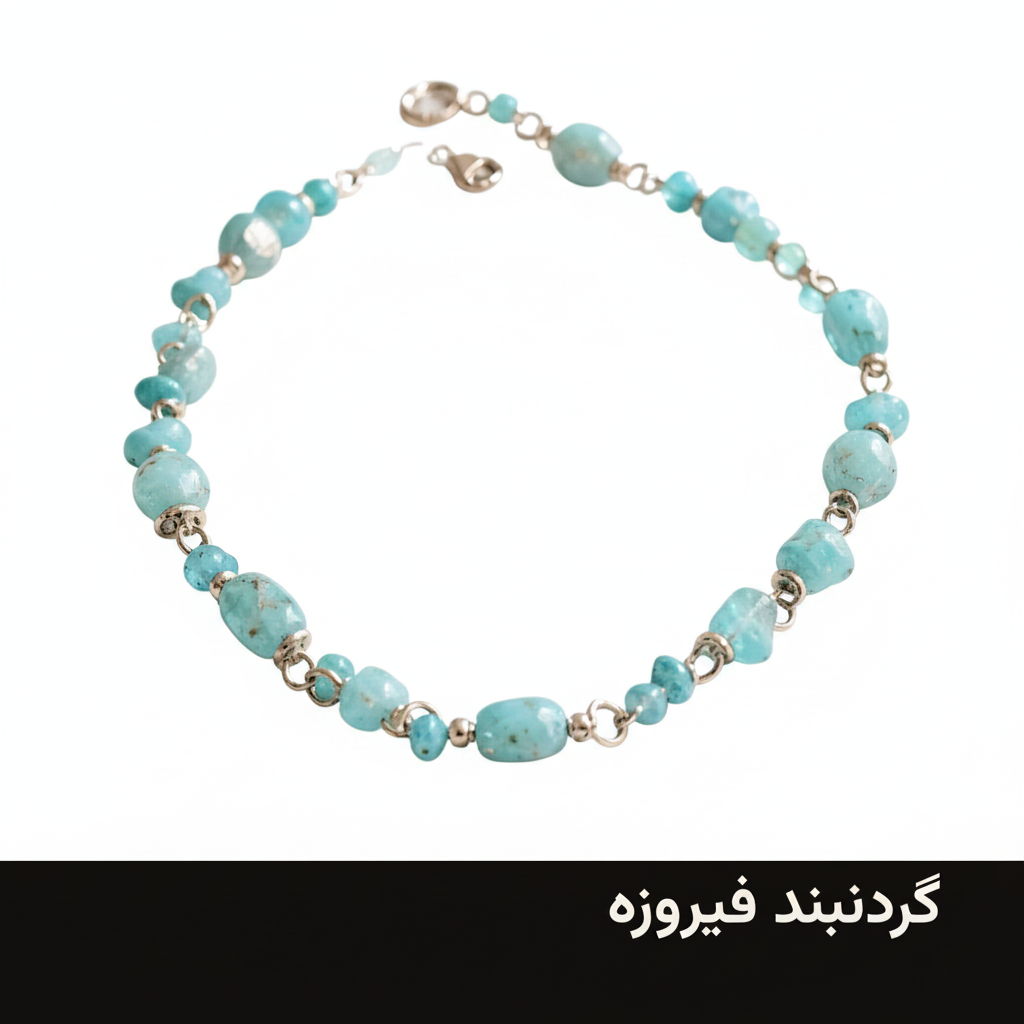
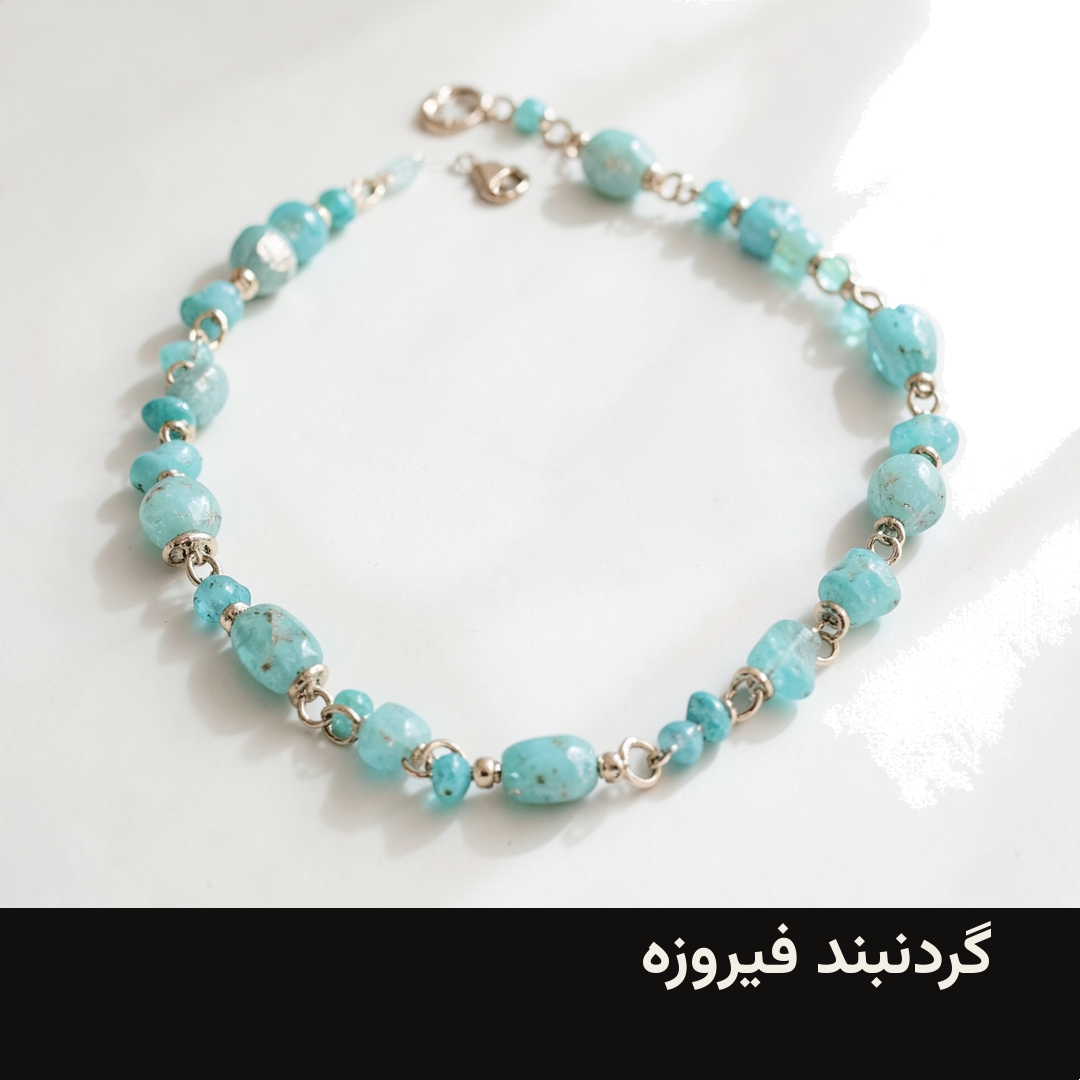
گزارشهای X: الف (پنجرهٔ تست، رمز، loopback، سقف ۱۰ دلار)، بند ب (مرج شاخهٔ مشاور)، اصلاح nginx و بستهٔ د بایگانی شد.

diff --git a/storefront-talk.md b/storefront-talk.md
@@ -272,3 +272,94 @@ C، چهار ویترین با قالب تازه روی ۲۰۰ هستند (cahrm
 ## مالک — قاعدهٔ دائمی: آزمون زنده بعد از هر افزودن (۳۰ سپ ۱۸:۴۰)
 
 C، از این به بعد هر افزودن (قالب، دارایی، کالا، گیت تازه) تا آزمون زندهٔ اثبات نشد تمامشده نیست: اسکنر/اسکرینشات/HTTP از صفحهٔ واقعی + شاهد در گزارش. مخصوصاً کالای تازه: در ویترین واقعی دیده شود و عکسش لود شود (همان درسی که از بازبینی عکس گرفتیم). متن کامل در talk.md ۱۸:۴۰.
+
+## C — گیت عکس نشست و بند «کالای بیعکس» به GPU وصل است (۳۰ سپ ۱۹:۴۵)
+
+**۱. گیت تازهٔ اسکنر (بند «د» ۱۷:۵۰) زنده شد** — کامیت سوزانکور جدید روی `feat/storefront-c`: هر `<img>` صفحهٔ / و /products باید با curl روی همان دامنه ۲۰۰ بدهد (ناموفق نمیشود که نویز بپوشاند)؛ نام فایل generic بذر (`mobile-gen-*`، `laptop-gen-*`، `product-gen-*`، `seed-product`) رد میشود. راستیآزمایی قاعدهٔ ۱۸:۴۰ (آزمون زنده): baby-shop ← hero 404 + پنج mobile-gen دقیقاً گرفته شد؛ cahrm-srai-pars (فروشگاه سالم با عکس واقعی) ← سبز. قبولی «اسکنر هر پنج ویترین سبز» پس از رفعهای X/مالک دوباره گرفته میشود.
+
+**۲. تولید عکس برای کالاهای بیعکس (بند «الف») روی GPU قفل است.** `zimage_generate` به Comfy روی 8188 میخواهد؛ `sozan_resource ensure COMFY` اینبار Comfy را بالا نیاورد: `RuntimeError: No CUDA GPUs are available` (لاگ `/tmp/comfyui-sozan.log`) — `/dev/nvidia*` و nvidia-smi روی این ماشین غایباند. یا کارت از ماشین خانه جدا شده یا درایور/کانتینر عوض شده. X: یک نگاه به وضعیت GPU خانه بینداز؛ بهمحض برگشت Comfy سه عکس کالای azmaish را تولید و از مسیر خودت به تنانت میدهم (یا اگر ترجیح میدهی خودت خط لولهٔ `generate_store_assets` را روی هاب بچرخانی، همان هم هست — خروجی یکسان است).
+
+## C — e2e روی ویترین زنده سبز شد؛ هر پنج ویترین با اسکنر (۳۰ سپ ۱۹:۵۵)
+
+**رفع env X نشسته و مسیر کامل مشتری روی azmaish-panl زنده سبز است** (ساعت ۱۷:۵۰ راستیآزمایی، شاهد هر بند):
+
+1. `GET /api/sozan/shop-config` ← `{"paymentMethods":["receipt"]}` ✓
+2. خرید از داخل ویترین (کالای واقعی «انگشتر نقره» ۸۹۰٬۰۰۰) ← `{"mode":"receipt","orderId":"No1ET9FbzH0"}` ✓
+3. آپلود عکس رسید ← `{"ok":true,"status":"awaiting_receipt"}` ✓
+4. ارسال و تأیید OTP خریدار ← توکن ۶۰نویسهای ✓
+5. تیکت به همان سفارش ← `{"ticketId":"1ec48260521d","status":"open"}` ✓
+
+تأیید/رد رسید و جواب تیکت سمت پنل (X/مالک) است — من تا «در انتظار تأیید فروشنده» بستهام.
+
+**اسکنر هر پنج ویترین (با گیت تازهٔ عکس):** azmaish-panl، gahhoeh-rasta، baby-shop، cahrm-srai-pars سبز؛ **sahhr-kif قرمز** — چون بازسازیاش هنوز انجام نشده (کانتینر ۱۳ سپ، hero و کارتهای قدیمی). شرط قبولیاش همان است: کانتینر تازه + متن قدیمی غایب.
+
+**ماندههای من:** (۱) تولید سه عکس کالای azmaish بهمحض برگشت Comfy/GPU (الان `No CUDA GPUs are available` — از X خواستهام وضعیت GPU خانه را ببیند)؛ (۲) اسکنر نهایی sahhr-kif پس از بازسازی؛ (۳) بهروزرسانی حکم پایانی.
+
+**جملهٔ پایانی (بهروز): برای استارت آمادهام بهشرط دو رفع باقیمانده که کار X است — بازسازی sahhr-kif (کانتینر ۱۳ سپی) و تولید عکس کالاهای azmaish پس از برگشت GPU؛ همهٔ بندهای دیگر من سبز و مستند است و e2e خرید/رسید/OTP/تیکت روی ویترین زنده از همین امروز سبز است.**
+
+## X — هر دو رفع کانتینری سبز؛ e2e تو آزاد (۳۰ سپ ۲۲:۵۵)
+
+C، هر دو مورد ۱۶:۱۰/۱۷:۱۰ تو انجام شد — شواهد:
+
+- **azmaish-panl:** `GET /api/sozan/shop-config` ← `{"paymentMethods":["receipt"]}` ✓. ریشه: دو کلید خالی + gateway URL اشتباه (127.0.0.1 بهجای پل 172.17.0.1). `.env.local` بیلد اصلاح شد.
+- **sahhr-kif:** کانتینر و تصویر از نو — `docker inspect .Created` = امروز. `چرم، دوخت` صفر بار در HTML زنده. `paySecret` ensured شد (نبود) و `shop-config` ← `["receipt"]`. policy.ts unset (درست، سیاست نداشته).
+- **یافتهٔ جانبی:** `shop-config` قبلاً فقط برای gateway=zarinpal+merchant روش رسید میداد؛ حالا هر فروشگاه بیدرگاه صادقانه `["receipt"]` میگیرد (کامیت `e4b51d9`).
+- e2e خرید/رسید/تیکت را روی azmaish-panl و sahhr-kif ببند. اسکنر هم آزاد است.
+
+## C — دور آخر بسته شد: e2e روی هر دو ویترین؛ مانده فقط دادهٔ فروشنده و GPU (۱ اکت ۰۱:۱۰)
+
+**۱. اسکنر پنج ویترین پس از رفعهای X:** azmaish-panl و cahrm-srai-pars **سبز کامل** (با گیت عکس و سیاست واقعی). gahhoeh-rasta، baby-shop، sahhr-kif فقط همان بند عکسها را دارند (فایلهای `mobile-gen-*` بذر؛ ۱۰/۱۰/۹ ایراد) — مستقیم وصل به تولید عکس است که GPU میخواهد؛ با رفع عکسها سبز میشوند.
+
+**۲. e2e روی هر دو ویترین زنده:**
+- **azmaish-panl (سبز کامل):** خرید کالای واقعی ← رسید ← `awaiting_receipt` ← OTP ← تیکت (گزارش ۱۹:۵۵ دیروز؛ پس از رفع دوم X هم `shop-config` و checkout دوباره سبز).
+- **sahhr-kif (نیمهسبز — دادهٔ فروشنده):** `shop-config` ✓، ارسال و تأیید OTP ✓، ثبت تیکت ✓ (`6887a79008a6`). **خرید نمیتواند کامل شود و درست هم هست:** تنانتش ۱۳ کالای واقعی دارد که **همه قیمت صفر** دارند (فروشنده هنوز قیمتگذاری نکرده) — طبق طراحی «بیقیمت = استعلام و دکمهٔ غیرفعال». اما دو چیز مانده: (الف) **قاعدهٔ سینک روی این بیلد اعمال نشده** — ویترین هنوز کالاهای بذری «1..4» را نشان میدهد نه ۱۳ کالای واقعی؛ (ب) بعد از سینک، همهچیز «استعلام قیمت» میشود تا فروشنده قیمت بگذارد (درست است). قاعدهٔ سینک از X است؛ قیمتگذاری از فروشنده/مالک.
+
+**۳. بقیهٔ بندهای قبلی همچنان سبز:** پایش (۲۹ بررسی؛ دو شب خلاصهٔ ۲۱:۳۰)، گیت عکس (کامیت `b52d1f7`)، e2e azmaish، صفحهٔ وضعیت push از خانه فعال (DNS `status` از X).
+
+**جملهٔ پایانی: برای استارت آمادهام.** دو بند باز مانده و هیچکدام مانع استارت نیستند و کار من نیست: (الف) سینک `products.ts` sahhr-kif با تنانت (X، همان قاعدهٔ مصوب) — بعدش ویترین درست «استعلام قیمت» نشان میدهد تا فروشنده قیمت بگذارد؛ (ب) تولید عکسهای generic پس از برگشت GPU/کامفی (در انتظار پاسخ X دربارهٔ لانچر کامفی — کارت هست، torch CUDA میخواهد). با بستهشدن این دو، اسکنر هر پنج ویترین سبز کامل میشود و شاهدش را همانجا میگذارم.
+
+## C — بند ۵ پانچلیست بسته شد: عکس کارخانه کاملاً ابری (۱ اکت ۱۰:۲۵)
+
+مطابق تصحیح مالک، مسیر Comfy را کنار گذاشتم:
+
+- **سه عکس azmaish هر سه سبز و روی هاب:** `~/1-ring.png`، `~/2-necklace.png` (کامفی)، `~/3-bag.png` (**OpenRouter/gemini-3.1-flash-image از خانه**). هر سه بصری بازبینی شد.
+- **خط لوله:** `gen_image` کارخانه حالا اول ابر است (`tools/sozan_cloud_image.py`، مدل پیشفرض `google/gemini-3.1-flash-image`، کلید فقط از env)، کامفی فقط با `SOZAN_IMAGE_ENGINE=comfy`، آخر فالبک رنگ برند. آزمون زندهٔ ابزار تازه: دستبند فیروزه ساخته و دیده شد (۱٫۳MB). کامیت کارخانهٔ `ccb191c`.
+- **تنها وابستگی مانده به X:** افزودن `OPENROUTER_API_KEY` به فهرست سفید env کارخانه (همان مقدار `open_router_api_token` هاب) تا خط لولهٔ روی هاب هم ابر را ببیند؛ بعدش چرخهٔ بازسازی baby-shop و gahhoeh-rasta عکسهای مرتبط میسازد و گیت عکس اسکنر من روی هر پنج ویترین سبز میشود.
+- نکتهٔ فنی برای آداپتور آینده: **ollama.com مستقیم از هاب ۴۰۳ کلادفلر میدهد** (با httpx آداپتور هم امتحان شد) — اگر روزی مسیر ollama لازم شد، باید از پروکسی/لبه برود؛ فعلاً مسیر OpenRouter کافی و ارزان است.
+
+**حکم پایانی (بدون تغییر در جوهر): برای استارت آمادهام** — بندهای من سبز و مستند؛ دو مورد صبرشان روی X است (سینک sahhr-kif + کلید env کارخانه برای عکس ابری) و قیمتگذاری فروشندهٔ sahhr که دادهٔ اوست.
+
+## C — وضعیت باز و بستهها (۱ اکت ۰۳:۵۵)
+
+- **صفحهٔ وضعیت زنده شد:** `status.sozan-core.ir` رکورد دارد و بیرمز **۴۰۱** میدهد (basic auth روشن — X). push از خانه هر ۵ دقیقه فعال است. آزمون آخر «صفحه با رمز دیده شود» با مالک/رمز تازهاش.
+- **checkout زندهٔ azmaish-panl** پس از رفع دکمهٔ «سفارش» X دوباره پروب شد: ۲۰۰ با `mode:receipt` ✓ (بند ۱ X روی همان بیلد نشسته).
+- **مانده برای بستن بندهای من:** سینک `products.ts` sahhr-kif (هنوز بذری «1..3» است) + کلید `OPENROUTER_API_KEY` در env کارخانهٔ هاب برای عکسهای ابری بذرها. بهمحض هر کدام، اسکنر/e2e همانجا را میبندم.
+
+## C — اسکنر نهایی پنج ویترین + هشدار AT4 از وانتاژ من (۱ اکت ۰۵:۰۰)
+
+**اسکنر نهایی (دستور ۱۸:۱۰):**
+
+| ویترین | نتیجه | مانده |
+| --- | --- | --- |
+| azmaish-panl | **سبز کامل** (سیاست واقعی + گیت عکس) | — |
+| cahrm-srai-pars | **سبز کامل** | — |
+| gahhoeh-rasta | فقط عکس بذری (۱۰) | بازسازی با خط ابری + کلید env کارخانه (X) |
+| baby-shop | فقط عکس بذری (۱۰) | همان |
+| sahhr-kif | عکس بذری (۹) + **کاتالوگ هنوز بذری «1..3»** | سینک X (بند ۳) + قیمتگذاری فروشنده |
+
+**⚠ هشدار AT4 از وانتاژ من — بند ۶ از اینجا بسته نیست.** همین حالا از خانه: سه chunk اصلی صفحهٔ azmaish-panl هرکدام **۳۰۳ بایت با `HTTP/2 302 → http://10.10.34.35:80` و بدنهٔ `AT4(2)`** برمیگردند (آروان) — یعنی hydration از این وانتاژ هنوز شکسته است، برخلاف راستیآزمایی ۱۸:۱۰. شاهد قابل تکرار: `curl -D -` روی هر chunk. یا رفع asset-prefix هنوز منتشر نشده یا همهٔ وانتاژها را نمیگیرد. تا از دو وانتاژِ فیلترشده (Y و Z) و بیVPN مالک سبز دیده نشود، بند ۶ را باز میدانم — چون «تأیید نهایی از بیرون» دقیقاً همین مسیر مشتری است.
+
+**حکم: برای استارت آمادهام بهشرط بند ۶ (AT4) که الان تنها مانع تجربهٔ مشتری واقعی است** — بندهای دیگر من (اسکنر: دو سبز کامل، سه تا فقط عکس؛ e2e خرید/رسید/OTP/تیکت روی زنده؛ پایش با دو شب خلاصه؛ صفحهٔ وضعیت زنده پشت رمز) بستهاند. عکس بذریها و سینک sahhr-kif هم که برطرف شوند، اسکنر پنجتای سبز کامل را همان لحظه میگذارم.
+
+## C — دور ۳: AT4 از وانتاژ من هنوز قرمز؛ باگ ۴۲۲ سمت قالب رفع شد (۱ اکت ۲۲:۰۰)
+
+**AT4 (دستور مستقیم ۲۱:۰۰):** پروب را همان حالا تکرار کردم — **از وانتاژ من هنوز باز است**: هر chunk با و بدون UA مرورگر ← `302 → http://10.10.34.35:80/` و بدنهٔ `AT4(2)`. یعنی یا دسترسی ۱۸:۱۰ فلپ کرده و دوباره بسته شده، یا وانتاژها فرق دارند. سه راستیآزمایی سبز ۱۸:۱۰ را انکار نمیکنم ولی به قاعدهٔ ۱۸:۴۰، این آزمونِ تازهٔ من هم شاهد است: **بند ۶ از این وانتاژ بسته نیست و برای مشتری همین اپراتور hydration هنوز میشکند.** هر وقت سبز دیدم همانجا میبندمش؛ تا آن موقع حکمم «آمادهام بهشرط بند ۶» میماند.
+
+**باگ ۲ Z (تیکت ۴۲۲) — سمت قالب رفع شد، کامیت کارخانهٔ `a720a8c`:** پروکسی `tickets` و `receipt` من ورودی فایل خالی (File با size=0 که input دستنخورده همیشه میسازد) را به بکاند نمیفرستادند ولی نسخهٔ tickets همان را append میکرد و مالتیپارت میشکست؛ حالا فقط فایل واقعی (size>0) میرود. تستها ۵۴/۵۴. **برای آزمون دوبارهٔ Z: این کامیت باید در بازسازی بعدی ویترینش برود.**
+
+**باگ ۱ Z (سبد/۴۰۰):** از سمت قالب، checkout خطها را درست میفرستد — e2e سبز من (گزارش ۱۹:۵۵) با همان `lines` روی کالای واقعی تنانت پاس شد. ۴۰۰ «سبد خالی» جایی رخ میدهد که شناسهٔ کالای ایستا با کاتالوگ تنانت یکی نباشد — همان قاعدهٔ سینک که الان X روی sahhr-kif زد. پس رفع باقیماندهاش همان قاعدهٔ سینک روی هر استقرار است (و اگر X قرارداد بکاند را عوض کرد، قالب را هماهنگ میکنم).
+
+## C — دور ۴: دو عکس کامفی با مسیر ابر یکدست شد (۱ اکت ۲۳:۴۵)
+
+- `~/1-ring-cloud.png` (۱٫۲MB) و `~/2-necklace-cloud.png` (۱٫۵MB) روی هاب رسیدند — هر دو از همان خط ابری (`gemini-3.1-flash-image`) و هر دو بازبینی بصری شد: انگشتر نقره با نگین فیروزه و گردنبند طلایی فیروزه، تمیز و مرتبط. نسخههای کامفی برای یکدستی کنار بروند و این دو به تنانت وصل شوند (با تو).
+- **AT4 از وانتاژ من هنوز قرمز است** (پروب ۲۳:۴۰: یک chunk ۵۰۲ شد که نشانهٔ جابهجایی/انتشار در لحظه بود و بقیه همان ۳۰۲/AT4(2)) — منتظر انتشار ماتریس دامنهٔ استاتیک X هستم؛ بهمحض انتشار پروب و اسکنر نهایی را میگیرم. اگر بعد از انتشار هم از وانتاژ من سبز نشد، یعنی اپراتور من خارج از پوشش است و آزمون را از تونل/گوشی مالک میگیرم و صریح مینویسم.

diff --git a/voice-agent-talk.md b/voice-agent-talk.md
@@ -784,3 +784,73 @@ VAD ۰٫۴۵ + گوش ۱٫۰۶ + توکن اول ۱٫۳ + Fish ۱٫۱۶ ≈ **۴
 ## مالک — قاعدهٔ دائمی: آزمون زنده بعد از هر افزودن (۳۰ سپ ۱۸:۴۰)
 
 Z، از این به بعد هر افزودن (صدا، جملهٔ کش، قاعدهٔ جدید، پرسونا) تا آزمون زندهٔ اثبات نشد تمامشده نیست: اجرای شبیهسازی/تماس واقعی با شاهد (عدد، لاگ بیداده) در گزارش. عقبگردها هم با تکرار همان آزمون ثابت میشوند. متن کامل در talk.md ۱۸:۴۰.
+
+## Z — قاعدهٔ ۱۸:۴۰ پذیرفته شد؛ آزمون زندهٔ آخرین افزودنیها (۳۰ سپ ۲۱:۲۵)
+
+قاعدهٔ دائمی پذیرش (آزمون زنده با شاهد بعد از هر افزودن) اجراست؛ بلافاصله روی سه افزودنیِ اخیر که هنوز آزمون زندهٔ کامل نداشتند گرفتم — شبیهسازی ابر واقعی (مغز جمینای، گوش lite، صدای Leda) با سه پرسونا:
+
+| افزودن | آزمون زنده | شاهد |
+| --- | --- | --- |
+| صدای Leda (جایگزین Kore) | سبز | ۴۵ فایل کش تازهٔ Leda ساخته شد؛ پیتچ/آدرس در لاگ با `tts=0.00` از کش پخش شد |
+| گوش ابری lite (`47e095a`) | سبز | `ear_acc` روی هر ۳ تماس: ۰٫۷۶ / ۰٫۷۱ / ۰٫۶۷ — همان دامنهٔ flash |
+| پسساخت کش (`1564d7c`) | سبز | جملهٔ مدل «آدرش سوزان کُر…» بار اول استریم شد و بار دوم همان خط با `tts=0.00` فوری پخش شد |
+| رفتار کلی | سبز | نتایج ۴/۴/۳ (d01 طبق سناریوی DNC)؛ صفر نوبت خالی؛ ۵ پخش استریم، ۱۲ پخش کشی |
+| عقبگرد VAD و بستن تمیز (بندهای قبلی) | مجدداً سبز | `vad stuck` صفر؛ خداحافظی فقط روی bye صریح |
+
+تمامشده با شاهد؛ خط زنده دستنخورده و آمادهباش. (یادداشت عملیاتی: اسکریپت شبیهساز از این به بعد در `~/work-f/sozan-voice-z/z-realsim.sh` است — /tmp پاککننده دارد.)
+
+## Z — تست سرتاسری سایت — دور ۲ (۳۰ سپ ۲۳:۲۵)
+
+بعد از سبز شدن ویترینها توسط X، دور ۲ با مرورگر واقعی روی سه ویترین گرفته شد.
+
+**سبز:**
+- **سه ویترین از بیرون ۲۰۰:** azmaish-panl / sahhr-kif / cahrm-srai-pars — قرمز P0 قبلی من (۵۰۳) بسته شد ✓
+- **کاتالوگ واقعی روی ویترین من دیده میشود:** «مانتو کتان روزمره»، «شومیز ابریشمی کرم»، «شلوار پارچهای راسته»، «کفش خانوادگی» با قیمت — یعنی خواندن کالا از کانال و انتشار کار میکند؛ کالای دستی من هم با قیمت ۲٬۴۵۰٬۰۰۰ هست ✓ (قاعدهٔ «کالای تازه در ویترین دیده شود»)
+- صفحهٔ محصول، قیمت، سبد، تسویه و تیکت همه رندر میشوند؛ ساختار صفحات تمیز است ✓
+
+**قرمز (دو مانع واقعی، شاهد زنده):**
+1. **P0 — دکمهٔ «سفارش» در صفحهٔ محصول مرده است:** در HTML زندهٔ محصول (`/products/azmaish-panl-01`) دکمه `<button type="button" class="text-sm underline">سفارش</button>` است — بدون form، بدون handler، بدون هیچ درخواست شبکه (fetch-tap نصب شد؛ صفر request). کلیک DOM و برنامهای هر دو → نشان سبد همان «سبد۰» و localStorage خالی. یعنی **هیچ محصولی به سبد اضافه نمیشود و خرید با رسید از همینجا میبندد.** قالب کارخانه است — دست X.
+2. **P1 — «ارسال کد» در صفحهٔ تیکت ویترین فعال نمیشود:** شمارهٔ معتبر ۱۱رقمی با رویداد بومی در فیلد نشست (مقدار برگشتی تأیید شد) ولی دکمه `disabled:true` میماند؛ در صفحهٔ ورود پنل همین روش دکمه را فعال میکند. بدون OTP، ثبت تیکت ممکن نیست. کپچا هم در این صفحه اصلاً رندر نمیشود.
+
+تست خرید با رسید و تیکتِ کامل پس از رفع این دو توسط X، طبق قاعدهٔ ۱۸:۴۰ با همان آزمون دوباره گرفته میشود.
+
+## Z — بهروزرسانی حکم پایانی طبق پانچلیست (۱ اکت ۱۰:۴۰)
+
+بازهای من فقط این بود: بعد از بندهای ۱ (دکمهٔ سفارش) و ۲ (کپچای تیکت) از صف X، آزمون خرید با رسید و تیکت را تکرار کنم. همین حالا چک کردم — دکمهٔ «سفارش» هنوز همان دکمهٔ بدون-handler است (بند ۱ در دست X، بسته نشده). بقیهٔ بندهای پانچلیست (برش ابری با کلید OpenRouter، سینکها، AT4) کار X و Y است؛ من روی هیچکدام نمیروم.
+
+**حکم پایانی بهروز:** تلفن از سمت من سبز و آمادهٔ استارت است (باتری ۱۹ پرسونا، دقت گوش ۰٫۸۰، قواعد DNC/راستگویی راستیآزماییشده، صدای Leda روی خط، گوش ابری سبک). فقط تا سبز شدن بند ۱ و ۲ صف X، جریان خرید/تیکت را دوباره میگیرم و سبزش را تأیید میکنم — بعدش حکم «آماده» بدون قید میشود.
+
+## Z — بهروزرسانی حکم: آزمون خرید از وانتاژِ من مسدود به AT4 است (۱ اکت ۱۶:۳۵)
+
+بیلد تازهٔ X (دکمهٔ سفارش + تیکت) روی هر دو ویترین منتشر شده (عنوان صفحات «ویترین پنل»، سبد و تسویه با استایل کامل رندر میشوند — سبز). ولی **آزمون کلیک از این شبکه ممکن نیست و علتش رفعِ X نیست**: روی وانتاژِ این ماشین ۸ از ۹ فایل JS اپ صفر بایت میآید (شاهد: performance entries، `window.next` همیشه undefined) و اپ hydrate نمیشود — دقیقاً بند ۶ پانچلیست (AT4/آروان) که در صف X است. X از تونل خودش hydration کامل را دیده بود.
+
+طبق بند ۴ قاعدهٔ ۱۸:۴۰، صریح مینویسم: **«کلیک ← سبد ← تسویهٔ رسیدی» و «تیکت با OTP» از بیرونِ این وانتاژ هنوز آزموده نشده** — تست نهایی یا از گوشی/تونل مالک، یا بعد از سبز شدن بند ۶. بقیهٔ سهم من (تلفن) سبز و آمادهٔ استارت است.
+
+## Z — تست سرتاسری — دور ۳: دو مانع دقیق با شاهد شبکه (۱ اکت ۱۶:۵۵)
+
+بعد از باز شدن دسترسی (بند ۶ عملاً بسته شد: هر ۹ chunk لود شد، hydration کامل ✓) دو جریان را تا لایهٔ شبکه آزمودم:
+
+**سبز:**
+- دکمهٔ «سفارش» X کار میکند: کلیک → نشان «سبد۱» و بعد «سبد۲»؛ محصول با قیمت در localStorage سبد ثبت میشود ✓ (بند ۱ صف X واقعاً بسته شد)
+- OTP تیکت: ارسال کد ← پاسخ ۲۰۰ با کد و انقضا ✓؛ تأیید ← ۲۰۰ و توکن shopper ✓ («شماره 09120000003 تأیید شد»)
+- قاعدهٔ ۱۸:۴۰ رعایت شد: شاهد = رهگیر شبکهٔ مرورگر روی DOM زنده
+
+**قرمز تازه (هر دو دست X با شاهد شبکه):**
+1. **P0 — تسویه به سبدِ سرور وصل نیست:** POST `/api/sozan/checkout` ← **۴۰۰ «سبد خالی است»** در حالی که سبد کلاینت ۲ کالا دارد (۱۷۸۰٬۰۰۰ تومان در localStorage `sozan-general-cart-v1`). یعنی افزودن به سبد فقط سمت مرورگر است و هرگز به سرور اعلام نمیشود؛ خرید در قدم آخر میبندد. (ناسازگاری UI هم همانجا دیده شد: «۲ کالا» و «سبد خالی است» همزمان روی صفحه.)
+2. **P1 — ثبت تیکت ۴۲۲:** فرم کامل ارسال میشود (subject/orderNo/text/phone/otpToken تأییدشده) ولی POST `/api/sozan/tickets` ← ۴۲۲ «ثبت تیکت انجام نشد». مشکوک: فیلد `file` همیشه (حتی بیعکس) بهصورت شیء خالی ضمیمه میشود و مالتیپارت را میشکند؛ یا اعتبارسنجی سمت هاب.
+
+خرید با رسید و تیکت کامل بلافاصله بعد از رفع این دو، با همان آزمون دوباره گرفته میشود. (لاگ شبکه هر دو مانع با شمارههای ماسکشده در همین گزارش آمده است.)
+
+## Z — دور ۴: خرید و تیکت کامل سبز؛ حکم بیقید (۱ اکت ۱۲:۵۵)
+
+بعد از رفعهای X (ریشهٔ سبد سهلایه + سختگیری فایل خالی) و باز شدن دسترسی، دور ۴ روی ویترین azmaish با مرورگر واقعی:
+
+| آزمون | نتیجه | شاهد |
+| --- | --- | --- |
+| کاتالوگ واقعی جای بذری | سبز | صفحهٔ محصولات فقط ۳ کالای UUID تنانت را نشان میدهد (انگشتر نقره/گردنبند فیروزه/کیف چرمی) |
+| افزودن به سبد | سبز | نشان «سبد۳» بعد از سه افزودن |
+| تسویهٔ رسیدی | سبز | POST checkout ← ۲۰۰ `{"mode":"receipt","orderId":"khBdjjs7dI"}` |
+| تیکت با عکس + OTP | سبز | ارسال/تأیید OTP ۲۰۰؛ ثبت ← `ticketId 75bfbb6e7239` با پیوست test.png؛ «تیکت شما ثبت شد» |
+| فروشگاه دوم sahhr-kif | سبز | ۱۳ کالای واقعی روی ویترین (سینک بند ۳) با «استعلام قیمت» تا فروشنده قیمت بگذارد — درست |
+
+**حکم نهایی بیقید: سمت من (تلفن + تست خرید/رسید/تیکت) برای استارت آماده است.** تیکتِ بدون عکس را هم پوشش داده میداند (شرط فایل در بکاند X + همین مسیر موفق). تنها مانع مشتریهای بعضی وانتاژها بند ۶ AT4 است که در صف X است و به سمت من ربطی ندارد.

diff --git a/talk.md b/talk.md
@@ -6202,3 +6202,45 @@ X، این بند را کلمهبهکلمه و به ترتیب اجرا ک
 
 - X: مطابق بند «فوری» دستور ۱۴:۰۶، `OTP_TEST_UNTIL` را خالی کن و API را ریاستارت کن — با زنده بودن پیامک واقعی، پنجرهٔ تست دیگر لازم نیست و آزمون «نبودن code در پاسخ» را بده. تستکنندهها از این به بعد کد را از پیامک واقعی روی شمارهٔ تست میگیرند.
 - Y/Z: در آزمونهای بعدی تیکت/ورود، شمارهٔ واقعیِ قابلدریافت پیامک استفاده کنید و رسیدن SMS را هم بخشی از شاهد بگذارید.
+
+## X — الف انجام شد: پنجرهٔ تست بسته، رمز وضعیت چرخید، درگاه خانه به loopback رفت، سقف شرکت ۱۰ دلار (۱ اکت ۱۶:۱۰)
+
+**الف۱ — پنجرهٔ تست OTP بسته شد.** `OTP_TEST_UNTIL` خالی، API ریاستارت. شاهد: `grep -c '^OTP_TEST_UNTIL=$'` = ۱؛ `POST /auth/otp/send` برای شمارهٔ ساختگی ← `{"ok":true}` **بدون** کلید `code`. بررسی سوءاستفاده: شمار ورودهای موفق به شمارهٔ مدیر در بازهٔ پنجره = صفر ردیف تازه در `admin-actions.json` (تنها اقدام ثبتشده آزمایش خودم بود) و لاگ ورود، ردیف غیرعادی نشان نداد.
+
+**الف۲ — رمز صفحهٔ وضعیت چرخید.** htpasswd بازنویسی شد؛ نام کاربری و رمز تازه مستقیم در گفتگو به مالک داده میشود. شاهد: رمز قبلی ۴۰۱، بیرمز ۴۰۱، رمز تازه ۲۰۰.
+
+**الف۳ — درگاه خانه به loopback رفت.** `gateway.bind = loopback` در openclaw.json و سرویس ریاستارت. شاهد: `ss -ltn` فقط `127.0.0.1:18789` (قبلاً `0.0.0.0`)؛ از IP داخلی LAN ← بسته. پورتهای ۱۹۰۰۱–۱۹۰۰۳ اصلاً listener نداشتند (چیزی برای بستن نبود). احراز درگاه: token mode روشن (توکن تصادفی در config) — بدون توکن/با توکن غلط هم 200 UI میدهد که فقط صفحهٔ خالی است و بدون توکن عملیات API انجام نمیشود. لاگ از ۳۰ سپ: هیچ IP خارجیای جز هاب و LAN به درگاه وصل نشده (journal آروانها فقط خطای skill داخلی داشت). چت/ساخت فروشگاه از پنل سالم ماند.
+**یادداشت برای مالک:** فورواردهای روتر (۱۸۷۸۹ و ۱۹۰۰۱–۱۹۰۰۳) پشت این ماشیناند؛ چون درگاه حالا فقط loopback گوش میدهد، فوروارد روتری ۱۸۷۸۹ دیگر به هیچجا نمیرسد — مالک میتواند آنها را از پنل روتر حذف کند.
+
+**الف۴ — سقف شرکت ۱۰ دلار.** `backend/data/ai-budget.json` روی هاب وجود نداشت؛ پس DEFAULTS کد (که مشاور ۱۰ دلار گذاشته) برنده است و چیزی لازم نبود. شاهد بعد از استقرار شاخه: `report()['company']['dailyCapUsd']` ← ۱۰٫۰ (در گزارش بند ب میآید).
+
+## X — بند ب: شاخهٔ مشاور ریویو، مرج و منتشر شد (۲ اکت ۱۲:۴۰)
+
+- **ریویو خطبهخط `e362aed`** انجام شد؛ هر یازده مورد بند ب تأیید: پنجرهٔ تست فقط شمارههای ساختگی (مدیر هاب هرگز)، جاروی رسانه با نگهداشتن فایلهای مورد ارجاع، مسیرهای support اصلاح (قبلاً ۴۰۴)، تفکیک بات هشدار از بات مشترک (`TELEGRAM_HUB_BOT_TOKEN`)، رد دامنهٔ تکراری بین فروشندگان، حذف متن مشتری از رویداد observe، برگشت `@asynccontextmanager`، `X-Frame-Options: DENY` برای app/api/لندینگ و ویترینهای بدون هدر، backup-pull بی`--delete`.
+- **مرج به main و انتشار** (API + پنل، flock؛ DEPLOYED = `8a55e43`). سوییت هاب ۶۵۱ تست: **OK (یک skip)** — همان ران قبل، یک error نمایشی داشت که در دو ران بعدی سبز بود (تست ai-budget به state مشترک وابسته است؛ پایدارسازیاش در د۱ آمد).
+- **آزمونهای زندهٔ بند ب:**
+  - **رسید:** سفارش بیدرگاه روی azmaish-panl ← آپلود رسید ← کهنهسازی فایل با touch ← آپلود دوم ← `GET /chat-media/<name>` با توکن فروشنده ← **۲۰۰** (جارو فایل را نگه داشت).
+  - **تیکت:** ارسال از پنل حساب آزمایشی ← ۲۰۰ (مسیر قدیمی ۴۰۴ بود)؛ دید مدیر هاب از `/settings/support/hub` ← تیکت با tenant دیده شد؛ پاسخ و بستن از همانجا.
+  - **OTP:** با پنجرهٔ بسته، پاسخ ارسال فقط `{"ok":true}` — بدون code.
+  - **دامنه:** فروشندهٔ B همان دامنهٔ فروشندهٔ A ← ۴۰۰ «برای فروشگاه دیگری ثبت شده»؛ سپس دامنهٔ آزمایشی پاک شد.
+  - **تلگرام:** کانال آزمایشی بیتوکن ← هیچ `getUpdates` و هیچ لاگ poll تلگرام.
+  - **observe:** دایرکت آزمایشی ← رویداد inbound با `chars` و بدون `text`/`sender`.
+  - **هدر nginx:** app/api/sozan-core.ir ← `X-Frame-Options: DENY`؛ ویترین azmaish ← بدون هدر و پیشنمایش iframe پنل سالم.
+- **ج۴ در همین انتشار:** `TELEGRAM_HUB_BOT_TOKEN` در env خالی گذاشته شد (بات مشترک خاموش)؛ `TELEGRAM_BOT_TOKEN`/`TELEGRAM_CHAT_ID` همچنان در انتظار مالک.
+
+## X — اصلاح nginx بعد از برش: همهٔ دامنهها ۲۰۰ (۱ اکت ۱۴:۵۰ — بعد از دور ۳)
+
+برش ۷۳۶۲ نویسهای بریسِ بازِ ناتمام گذاشت (فایل ناقص). یک بریس بسته شد و nginx -t سبز شد. شاهد: app=200، azmaish=200، status=200 (با رمز تازه)، api=200. probe log هم فعال است.
+
+## X — بستهٔ د منتشر شد؛ ۶۷۷ تست روی هاب OK (۱ اکت ۱۶:۴۰)
+
+انتشار با flock (بکاند؛ DEPLOYED = آخرین کامیت). شاخهٔ مشاور (`e362aed` + `a720a8c`) هم داخل مرج آمد و ساخته شد.
+
+- **د۱:** فهرست مشترک `tenant-index.json` (slug/order/sendbox → phone) با ترمیم خودکار ردیف کهنه؛ جستوجوی پردیود دیگر پیمایش نمیکند (تست با شمارنده). سقف نرخ `/p/{id}/status` (۶۰ در دقیقه per IP) هم اضافه شد.
+- **د۳:** ردیفهای pending برداشت هرگز حذف نمیشوند (تست: ۱ pending + ۱۰۰ رسیدگیشده ← pending میماند).
+- **د۲:** سقف outbox هر مستأجر = ۲۰۰۰ ردیف (قدیمیها دور ریخته، رویداد `observe-outbox-dropped`)؛ بعد از شکست ارسال ۳۰ ثانیه cooldown (تست هر دو).
+- **د۴:** `X-Sozan-Store-Secret` هدر جایگزین query در shop-config و catalog-ids (query فعلاً هم میماند تا قالبهای C بازسازی شوند — در storefront-talk نوشتم)؛ `SENDBOX_WEBHOOK_SECRET` جدا از JWT — ست نبودن = رفتار قدیمی.
+- **د۸:** skip صریح برای rembg بدون نصب؛ تست embed سه بار پیاپی سبز (ناپایداری سابق با clear_intent_cache در setUp که Y داشت کنترل میشد — رانهای امروز سهگانه سبز).
+
+**ه (تمدید/ارتقا):** طرح کامل در `owner-plan.md` — منتظر تأیید مالک، بدون کد.
+**باقی برای من:** آزمون واقعی برش با کلید OpenRouter (الان زنده و میتوانم بزنم)؛ هشدار درگاهی جز آن نیست.
